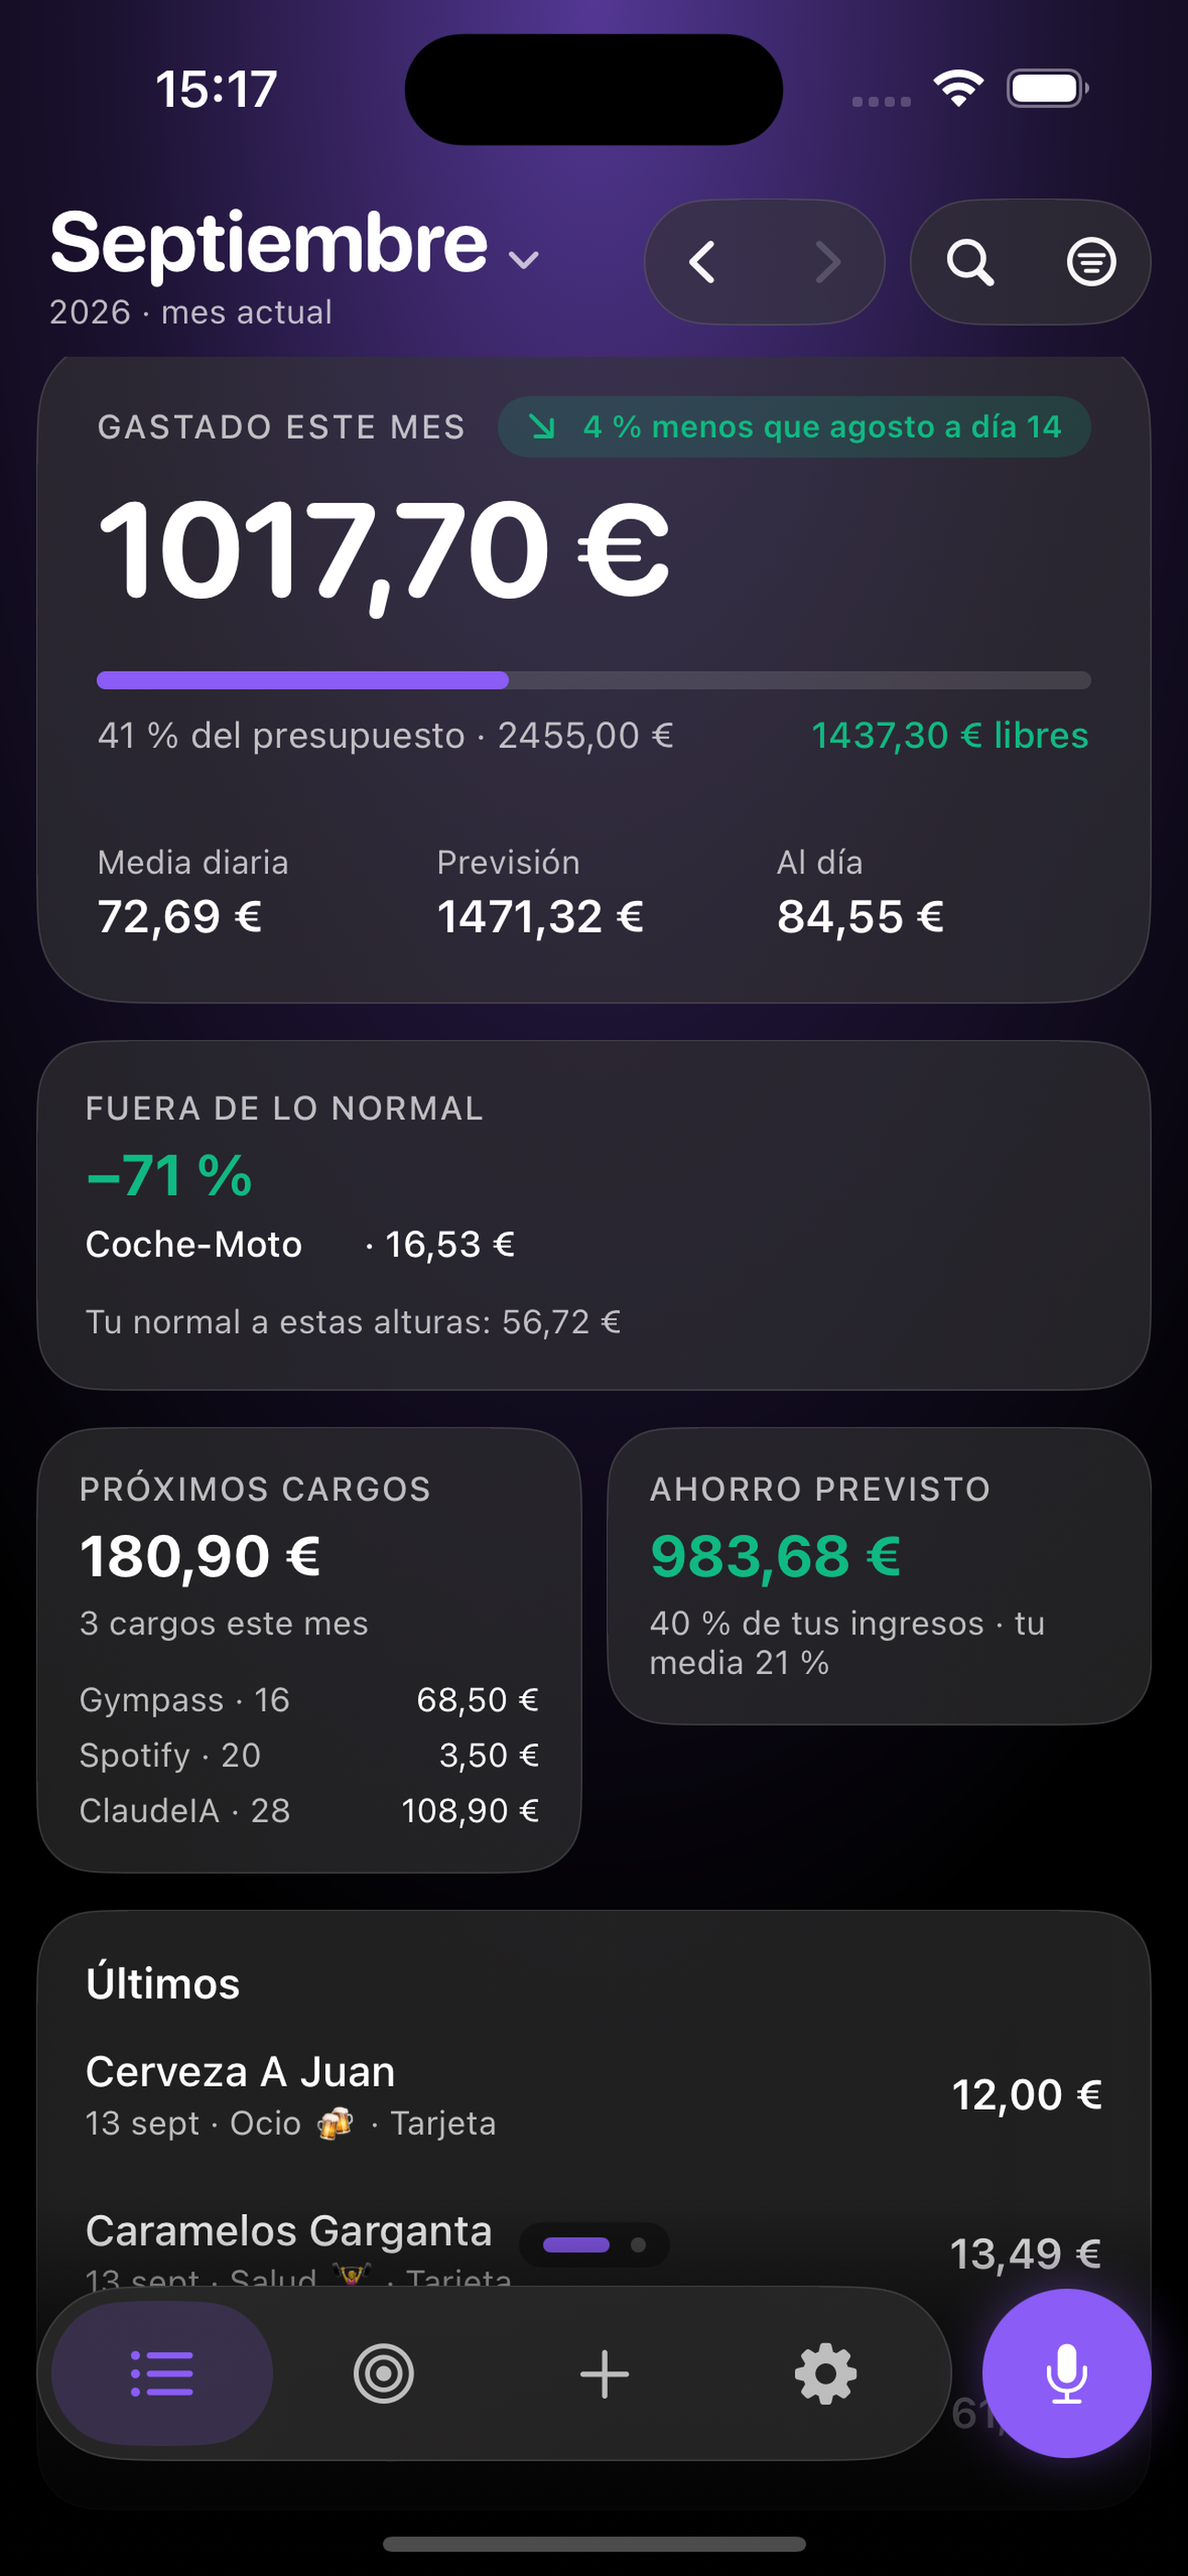
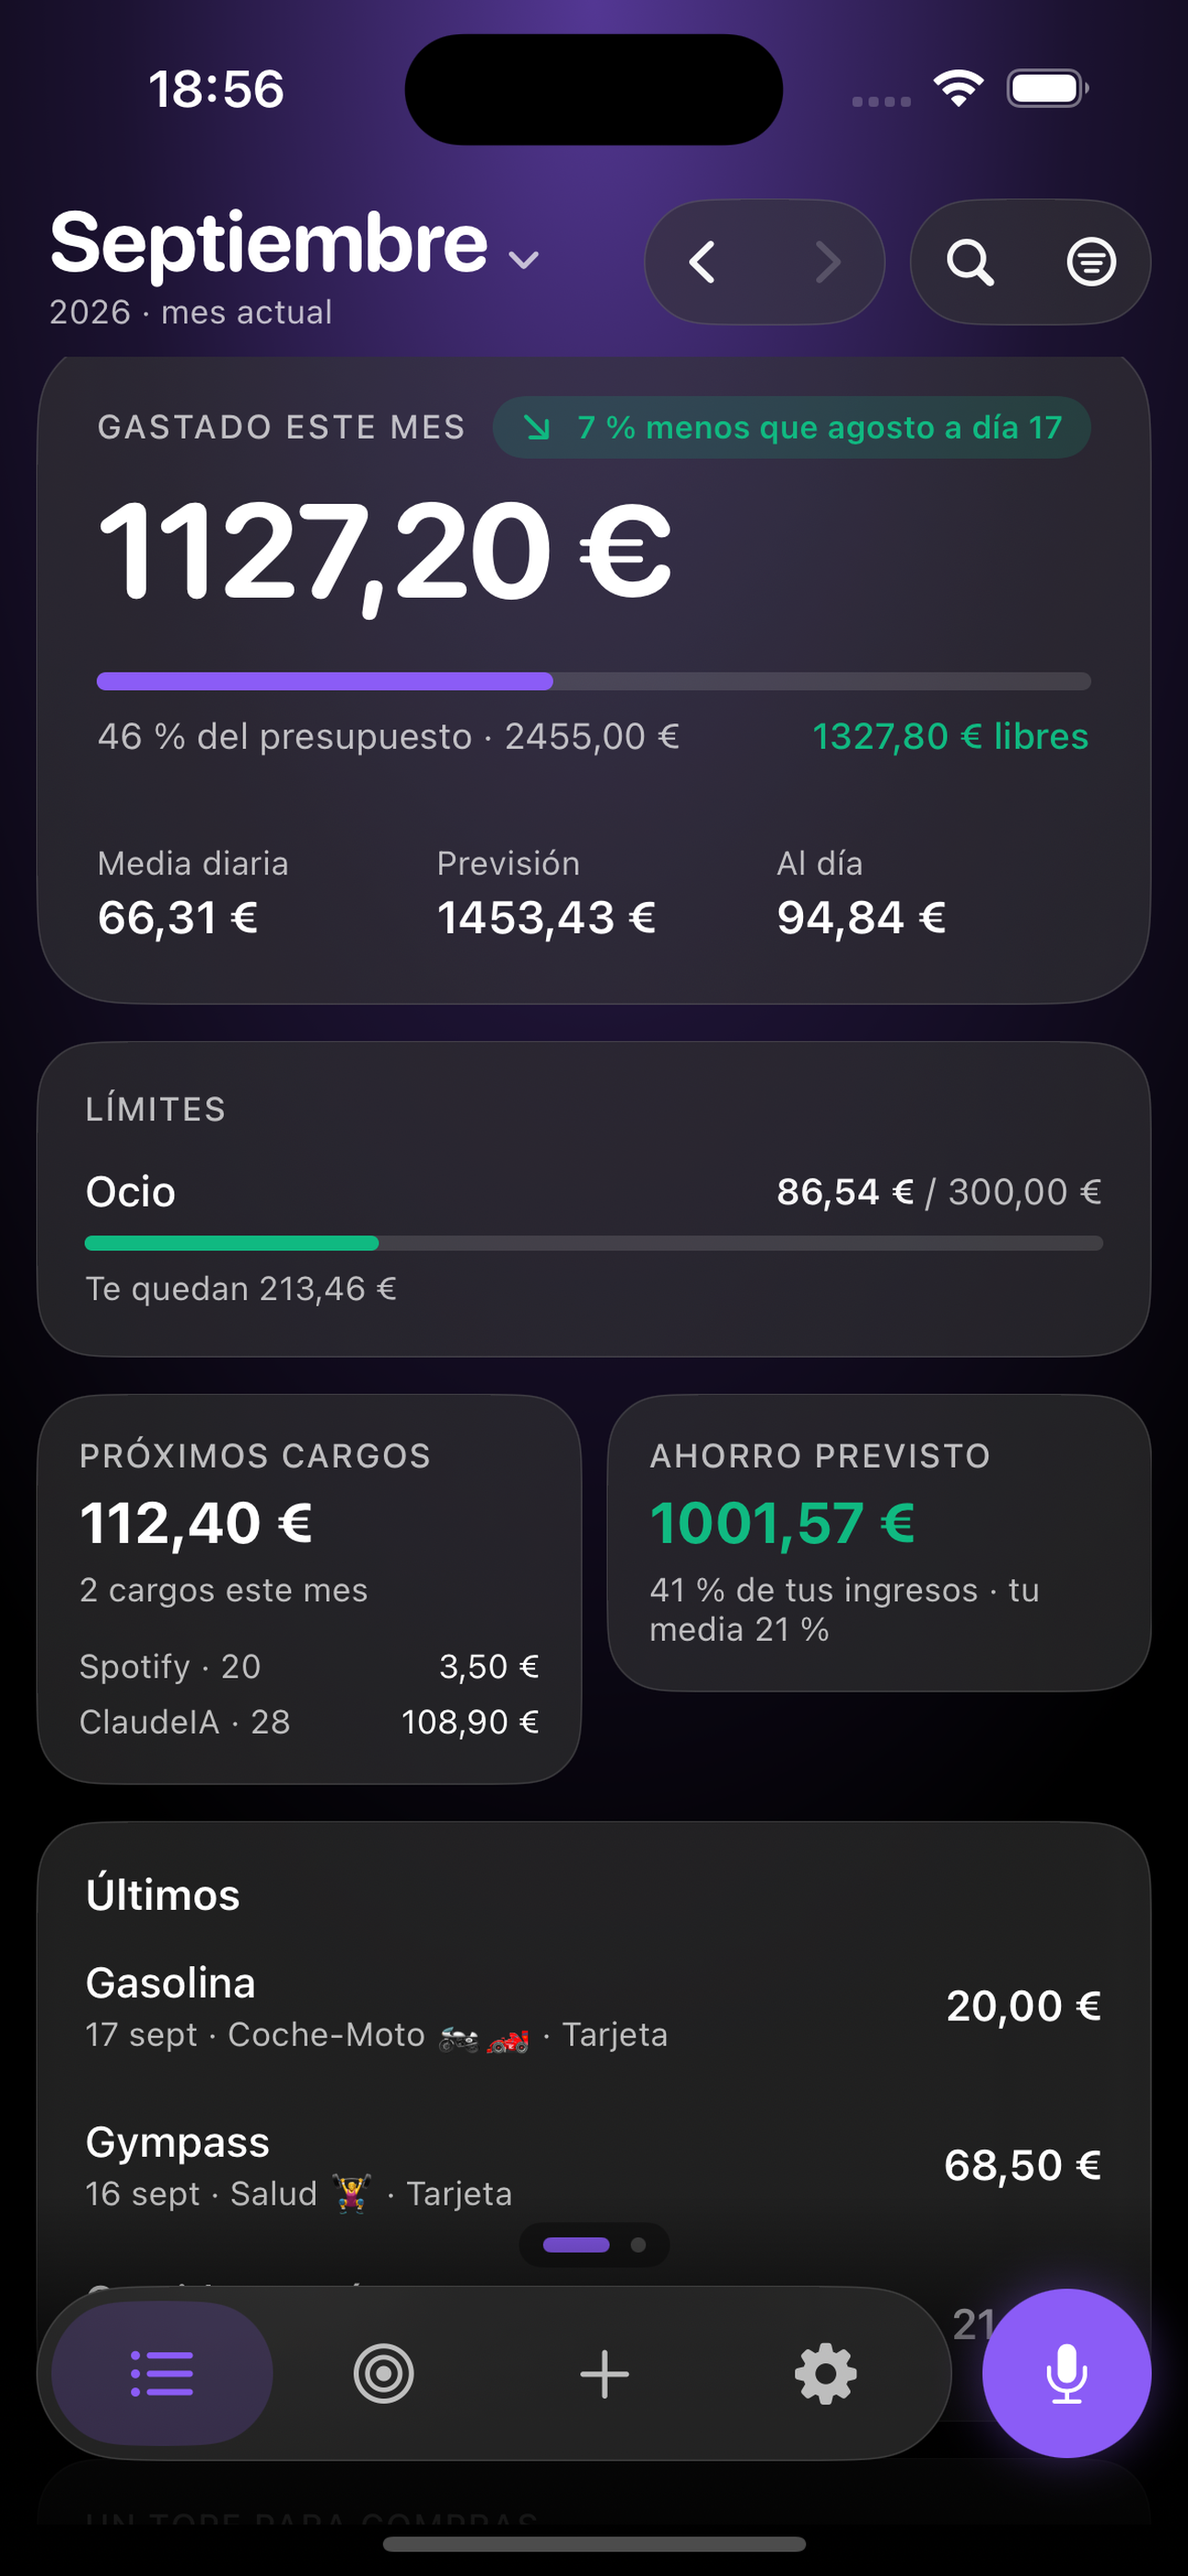
chore(tienda): la captura de voz deja de ser la misma que la de la Home (#71)
Los mockups 01 (voz) y 04 (Home) montaban la misma captura y en la ficha
parecían repetidos. componer_captura_voz.py compone sobre la Home —fuera de
foco detrás— el panel de escucha: la onda, la frase y el gasto ya guardado,
en español y en inglés. La captura de la Home, además, es la de ahora, sin
la tarjeta de "Fuera de lo normal" por debajo de la costumbre.

diff --git a/scripts/componer_captura_voz.py b/scripts/componer_captura_voz.py
@@ -1,0 +1,117 @@
+#!/usr/bin/env python3
+"""
+componer_captura_voz.py — la captura de "la app escuchando" para la ficha (#71).
+
+El momento exacto en que la app escucha sale mal en una foto estática, y usar
+la misma captura de la Home en dos mockups los dejaba iguales en la tienda.
+Esto compone, sobre la captura de la Home, el panel de escucha: la Home
+desenfocada detrás, la onda de audio, la frase y el gasto ya registrado.
+
+Uso:
+    python3 scripts/componer_captura_voz.py
+Entrada:  marketing/screenshots/input/1_home.png  (1290x2796)
+Salida:   marketing/screenshots/input/4_voice.png y 4_voice_en.png
+"""
+
+from pathlib import Path
+import sys
+
+from PIL import Image, ImageDraw, ImageFilter
+
+sys.path.insert(0, str(Path(__file__).resolve().parent))
+import generate_mockups as g  # load_font y render_emoji
+
+W, H = 1290, 2796
+ACENTO = (190, 140, 255)
+EXITO = (52, 211, 153)
+
+TEXTOS = {
+    "4_voice.png": {
+        "estado": "ESCUCHANDO",
+        "frase": "«20 euros en gasolina»",
+        "nombre": "Gasolina",
+        "importe": "20,00 €",
+        "guardado": "Guardado en Coche-Moto",
+    },
+    "4_voice_en.png": {
+        "estado": "LISTENING",
+        "frase": "“20 euros on gas”",
+        "nombre": "Gas",
+        "importe": "20,00 €",
+        "guardado": "Saved to Car",
+    },
+}
+
+
+def componer(home: Image.Image, t: dict) -> Image.Image:
+    lienzo = home.convert("RGBA").resize((W, H), Image.LANCZOS)
+    # La Home, detrás y fuera de foco: que se note que es otro momento.
+    lienzo = lienzo.filter(ImageFilter.GaussianBlur(radius=22))
+    lienzo.alpha_composite(Image.new("RGBA", (W, H), (8, 4, 18, 170)))
+
+    margen = 60
+    panel_w, panel_h = W - margen * 2, 1240
+    px, py = margen, 1020
+
+    panel = Image.new("RGBA", (W, H), (0, 0, 0, 0))
+    ImageDraw.Draw(panel).rounded_rectangle(
+        [(px, py), (px + panel_w, py + panel_h)], radius=84,
+        fill=(24, 14, 46, 240), outline=(255, 255, 255, 50), width=3,
+    )
+    lienzo.alpha_composite(panel)
+    d = ImageDraw.Draw(lienzo)
+
+    def centrado(texto, fuente, y, color):
+        bb = fuente.getbbox(texto)
+        d.text((px + (panel_w - (bb[2] - bb[0])) // 2, y), texto, fill=color, font=fuente)
+
+    centrado(t["estado"], g.load_font(40, "Semibold"), py + 70, ACENTO + (255,))
+
+    # Onda de audio: alturas fijas para que el resultado sea reproducible.
+    alturas = [22, 46, 78, 120, 158, 190, 150, 96, 132, 176, 205, 168,
+               124, 88, 142, 184, 146, 102, 64, 38, 92, 138, 84, 44, 26]
+    ancho, hueco, escala = 16, 22, 2.0
+    total = len(alturas) * ancho + (len(alturas) - 1) * hueco
+    x0 = px + (panel_w - total) // 2
+    medio = py + 400
+    for i, h in enumerate(alturas):
+        x = x0 + i * (ancho + hueco)
+        lejos = abs(i - len(alturas) / 2) / (len(alturas) / 2)
+        alto = int(h * escala)
+        d.rounded_rectangle([(x, medio - alto // 2), (x + ancho, medio + alto // 2)],
+                            radius=ancho // 2, fill=ACENTO + (int(255 - lejos * 120),))
+
+    centrado(t["frase"], g.load_font(84, "Bold", rounded=True), py + 670, (255, 255, 255, 255))
+
+    # El gasto ya registrado.
+    cx, cw, ch = px + 60, panel_w - 120, 210
+    cy = py + panel_h - ch - 150
+    tarjeta = Image.new("RGBA", (W, H), (0, 0, 0, 0))
+    ImageDraw.Draw(tarjeta).rounded_rectangle(
+        [(cx, cy), (cx + cw, cy + ch)], radius=56,
+        fill=(255, 255, 255, 22), outline=(255, 255, 255, 46), width=2,
+    )
+    lienzo.alpha_composite(tarjeta)
+    emoji = g.render_emoji("⛽", 110)
+    lienzo.alpha_composite(emoji, dest=(cx + 50, cy + (ch - emoji.size[1]) // 2))
+    d = ImageDraw.Draw(lienzo)
+    f_nombre = g.load_font(68, "Semibold", rounded=True)
+    d.text((cx + 200, cy + (ch - 80) // 2), t["nombre"], fill=(255, 255, 255, 255), font=f_nombre)
+    f_importe = g.load_font(72, "Bold", rounded=True)
+    bb = f_importe.getbbox(t["importe"])
+    d.text((cx + cw - 56 - (bb[2] - bb[0]), cy + (ch - 84) // 2), t["importe"], fill=ACENTO + (255,), font=f_importe)
+
+    centrado("✓  " + t["guardado"], g.load_font(44, "Medium"), cy + ch + 44, EXITO + (255,))
+    return lienzo.convert("RGB")
+
+
+def main():
+    entrada = Path(__file__).resolve().parent.parent / "marketing" / "screenshots" / "input"
+    home = Image.open(entrada / "1_home.png")
+    for nombre, textos in TEXTOS.items():
+        componer(home, textos).save(entrada / nombre, "PNG", optimize=True)
+        print("->", nombre)
+
+
+if __name__ == "__main__":
+    main()
